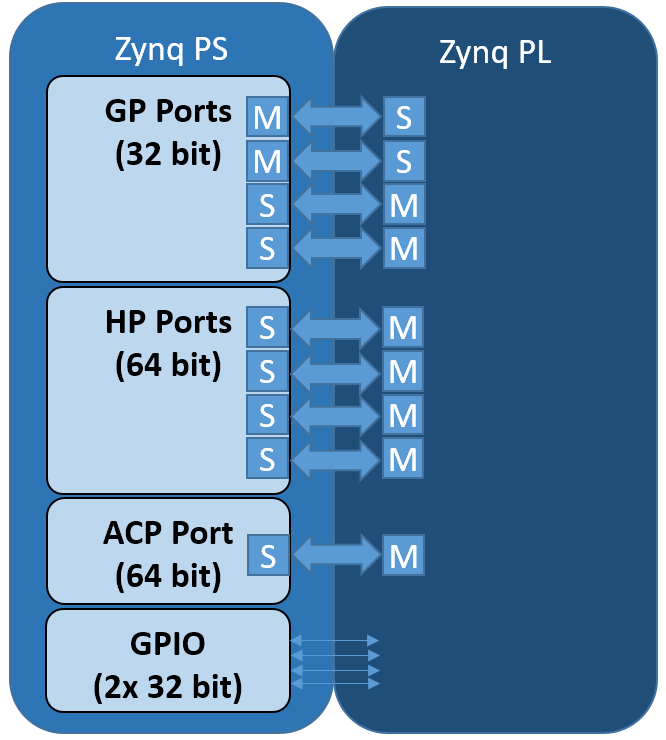
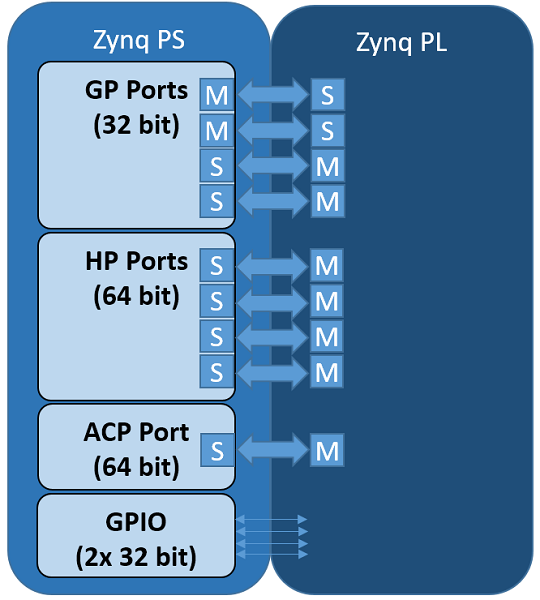
v2.1 doc updates

diff --git a/docs/source/pynq_package/pynq.lib/pynq.lib.pynqmicroblaze.rst b/docs/source/pynq_package/pynq.lib/pynq.lib.pynqmicroblaze.rst
@@ -1,9 +1,51 @@
 .. _pynq-lib-pynqmicroblaze:
 
-pynq.lib.pynqmicroblaze Module
-==============================
+pynq.lib.pynqmicroblaze.pynqmicroblaze Module
+=============================================
 
-.. automodule:: pynq.lib.pynqmicroblaze
+.. automodule:: pynq.lib.pynqmicroblaze.pynqmicroblaze
     :members:
     :undoc-members:
     :show-inheritance:
+	
+pynq.lib.pynqmicroblaze.compile Module
+======================================
+
+.. automodule:: pynq.lib.pynqmicroblaze.compile
+    :members:
+    :undoc-members:
+    :show-inheritance:
+
+pynq.lib.pynqmicroblaze.rpc Module
+==================================
+
+.. automodule:: pynq.lib.pynqmicroblaze.rpc
+    :members:
+    :undoc-members:
+    :show-inheritance:
+	
+pynq.lib.pynqmicroblaze.magic Module
+====================================
+
+.. automodule:: pynq.lib.pynqmicroblaze.magic
+    :members:
+    :undoc-members:
+    :show-inheritance:
+	
+
+pynq.lib.pynqmicroblaze.streams Module
+======================================
+
+.. automodule:: pynq.lib.pynqmicroblaze.streams
+    :members:
+    :undoc-members:
+    :show-inheritance:
+
+pynq.lib.pynqmicroblaze.bsp Module
+==================================
+
+.. automodule:: pynq.lib.pynqmicroblaze.bsp
+    :members:
+    :undoc-members:
+    :show-inheritance:
+	

diff --git a/docs/source/getting_started.rst b/docs/source/getting_started.rst
@@ -42,8 +42,8 @@ Micro SD card preloaded with the PYNQ-Z1 image, you can skip this step.
 
 To make your own PYNQ Micro-SD card:
 
-  1. `Download the PYNQ-Z1 image
-     <https://files.digilent.com/Products/PYNQ/pynq_z1_v2.0.img.zip>`_
+  1. `Download the PYNQ-Z1 v2.1 image (released 21 Feb 2018)
+     <http://files.digilent.com/Products/PYNQ/pynq_z1_v2.1.img.zip>`_
   2. Unzip the image 
   3. Write the image to a blank Micro SD card (minimum 8GB recommended)
    
@@ -59,7 +59,7 @@ Board Setup
       :align: center
 
   1. Set the **JP4 / Boot** jumper to the *SD* position by
-     placing the jumper over the bottom two pins of JP4 as shown in the image.
+     placing the jumper over the top two pins of JP4 as shown in the image.
      (This sets the board to boot from the Micro-SD card)
    
   2. To power the PYNQ-Z1 from the micro USB cable, set the **JP5 / Power**
@@ -225,8 +225,6 @@ When prompted, the username is **xilinx** and the password is **xilinx**. The
 following screen should appear:
 
 .. image:: images/samba_share.JPG
-    :height: 600px
-    :scale: 75%
     :align: center
 
 To access the home area in Ubuntu, open a file broswer, click Go -> Enter

diff --git a/docs/source/changelog.rst b/docs/source/changelog.rst
@@ -7,7 +7,7 @@ Version 2.1
 
 Image release: pynq_z1_v2.1
 
-Documentation updated 14 Feb 2018
+Documentation updated 21 Feb 2018
 
 * Overlay Changes
    * All overlays updated to build with Vivado 2017.4
@@ -26,6 +26,7 @@ Documentation updated 14 Feb 2018
    * Updated to Ubuntu 16.04 LTS (Xenial)
    * Updated kernel to tagged 2017.4 Xilinx release.
    * Jupyter now listens on both :80 and :9090 ports
+   * opencv2.4.9 removed
 * Microblaze Programming
    * IPython magics added for Jupyter programming of Microblazes
    * Microblaze pyprintf, RPC, and Python-callable function generation added.

diff --git a/docs/source/pynq_package/pynq.lib/pynq.lib.arduino.rst b/docs/source/pynq_package/pynq.lib/pynq.lib.arduino.rst
@@ -30,15 +30,7 @@ pynq.lib.arduino.arduino_grove_buzzer Module
     :members:
     :undoc-members:
     :show-inheritance:
-       
-pynq.lib.arduino.arduino_grove_color Module
--------------------------------------------
-
-.. automodule:: pynq.lib.arduino.arduino_grove_color
-    :members:
-    :undoc-members:
-    :show-inheritance:
-   
+  
 pynq.lib.arduino.arduino_grove_ear_hr Module
 --------------------------------------------
 

diff --git a/docs/source/pynq_package/pynq.lib/pynq.lib.pmod.rst b/docs/source/pynq_package/pynq.lib/pynq.lib.pmod.rst
@@ -127,14 +127,6 @@ pynq.lib.pmod.pmod_grove_buzzer Module
     :undoc-members:
     :show-inheritance:
     
-pynq.lib.pmod.pmod_grove_color Module
--------------------------------------
-
-.. automodule:: pynq.lib.pmod.pmod_grove_color
-    :members:
-    :undoc-members:
-    :show-inheritance:
-    
 pynq.lib.pmod.pmod_grove_dlight Module
 --------------------------------------
 

diff --git a/docs/source/pynq_libraries.rst b/docs/source/pynq_libraries.rst
@@ -61,6 +61,6 @@ driver provided, before the peripheral can be used.
     pynq_libraries/arduino.rst
     pynq_libraries/grove.rst
     pynq_libraries/logictools.rst
-    pynq_libraries/pynq_microblaze.rst
+    pynq_libraries/pynq_microblaze_subsystem.rst
     pynq_libraries/pynqmb_python.rst
     pynq_libraries/pynqmb_reference.rst       

diff --git a/docs/source/pynq_overlays/logictools_overlay.rst b/docs/source/pynq_overlays/logictools_overlay.rst
@@ -121,7 +121,7 @@ Assuming PYNQ has been cloned:
    source ./build_logictools_ip.tcl
    source ./logictools.tcl
 
-To build from the command line, open the Vivado 2016.1 Tcl Shell, and run the 
+To build from the command line, open the Vivado 2017.4 Tcl Shell, and run the 
 following:
 
 .. code-block:: console

diff --git a/docs/source/overlay_design_methodology/pspl_interface.rst b/docs/source/overlay_design_methodology/pspl_interface.rst
@@ -10,6 +10,7 @@ ports, 2x AXI Slave GP ports and 1x AXI Master ACP port. There are also GPIO
 controllers in the PS that are connected to the PL.
 
 .. image:: ../images/zynq_interfaces.png
+   :height: 500px
    :align: center
 
 There are four ``pynq`` classes that are used to manage data movement between 

diff --git a/docs/source/pynq_overlays/base_overlay.rst b/docs/source/pynq_overlays/base_overlay.rst
@@ -206,7 +206,7 @@ Assuming PYNQ has been cloned:
    source ./build_base_ip.tcl
    source ./base.tcl
 
-To build from the command line, open the Vivado 2016.1 Tcl Shell, and run the 
+To build from the command line, open the Vivado 2017.4 Tcl Shell, and run the 
 following:
 
 .. code-block:: console
